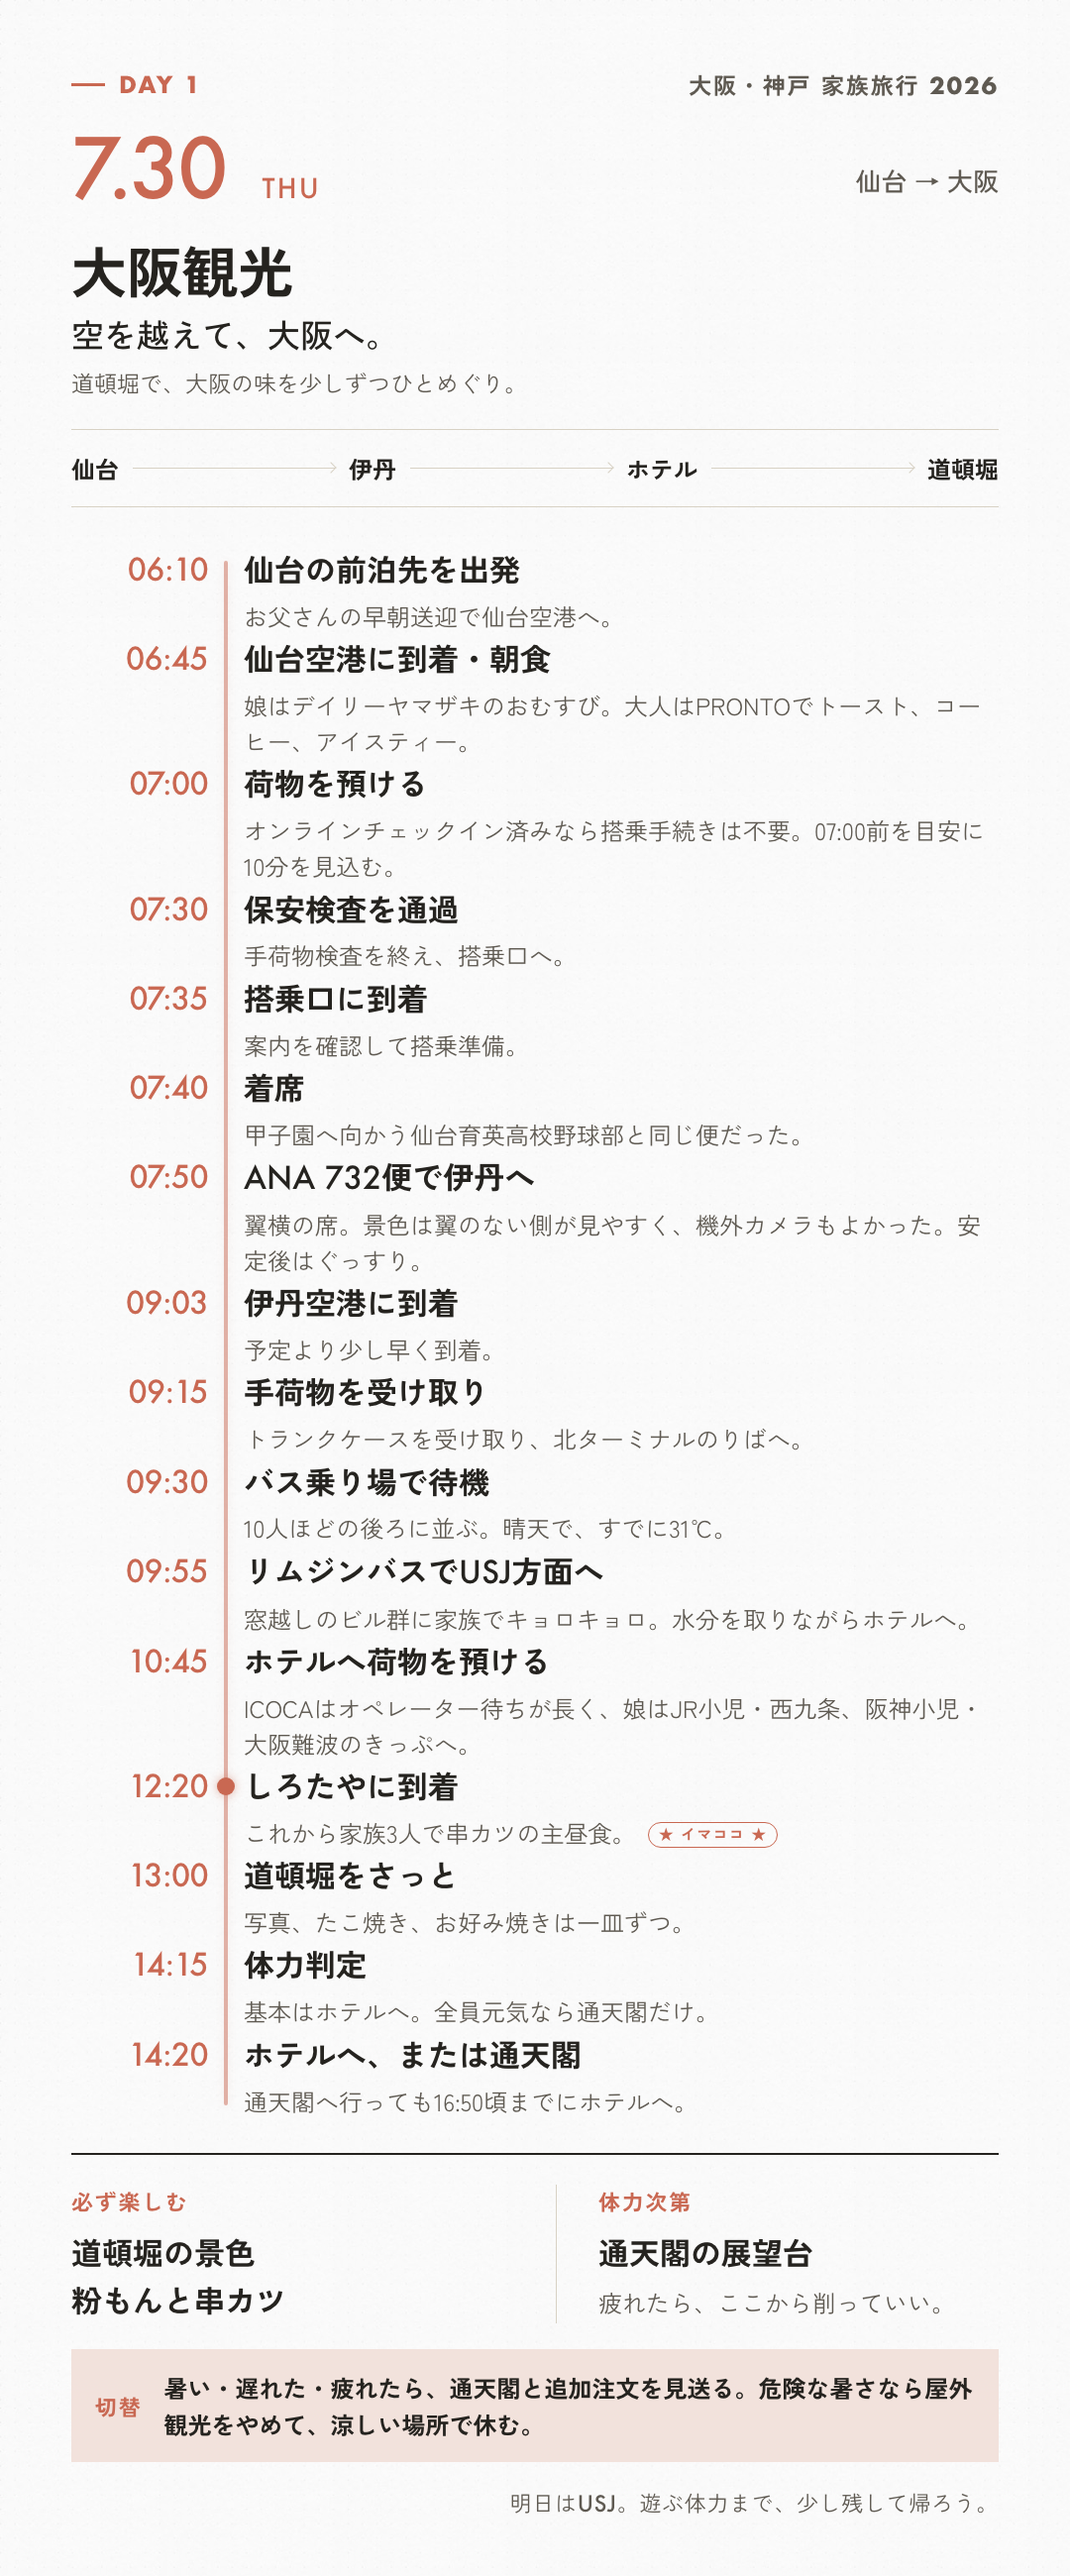
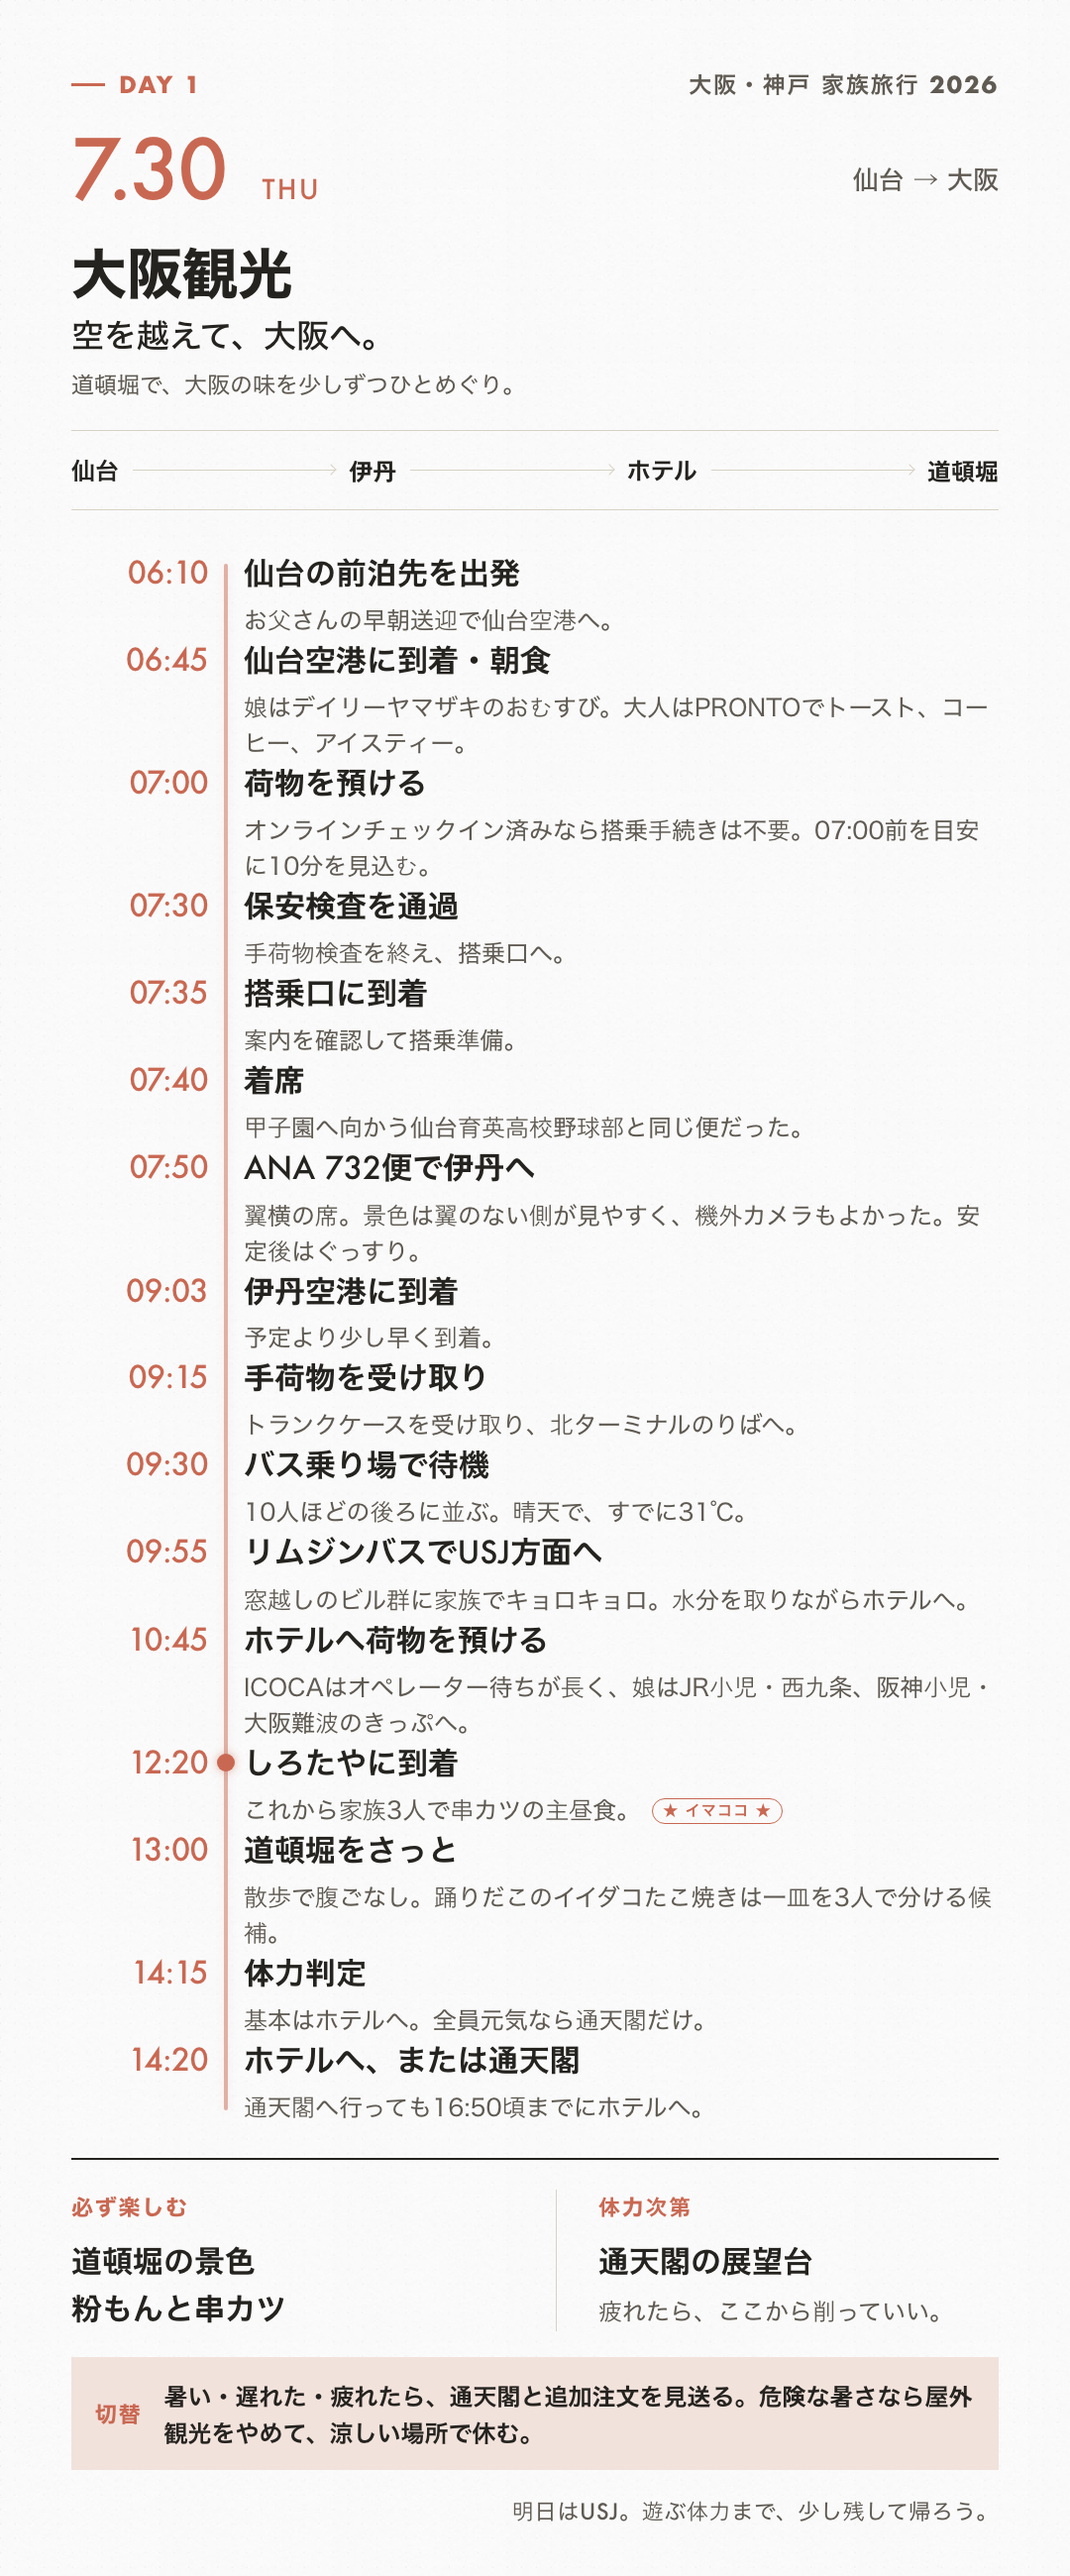
Add Dotonbori walk loop and Odoridako

diff --git a/docs/trip-plan.html b/docs/trip-plan.html
@@ -252,27 +252,29 @@
               <li><span>2</span><strong>法善寺横丁</strong><small>短い路地だけ</small></li>
               <li><span>3</span><strong>かに道楽</strong><small>動くカニ</small></li>
               <li><span>4</span><strong>戎橋</strong><small>グリコサイン</small></li>
-              <li><span>5</span><strong>551蓬莱</strong><small>列が短ければ</small></li>
-              <li><span>6</span><strong>大阪難波駅</strong><small>ホテルへ戻る</small></li>
+              <li><span>5</span><strong>心斎橋筋</strong><small>日差しを避けて5分</small></li>
+              <li><span>6</span><strong>踊りだこ</strong><small>イイダコたこ焼き</small></li>
+              <li><span>7</span><strong>大阪難波駅</strong><small>ホテルへ戻る</small></li>
             </ol>
-            <a class="walk-map__link" href="https://www.google.com/maps/dir/?api=1&amp;origin=%E4%B8%B2%E3%82%AB%E3%83%84+%E3%81%97%E3%82%8D%E3%81%9F%E3%82%84+%E9%81%93%E9%A0%93%E5%A0%80%E6%9C%AC%E5%BA%97&amp;destination=%E5%A4%A7%E9%98%AA%E9%9B%A3%E6%B3%A2%E9%A7%85&amp;travelmode=walking&amp;waypoints=%E6%B3%95%E5%96%84%E5%AF%BA%E6%A8%AA%E4%B8%81%7C%E3%81%8B%E3%81%AB%E9%81%93%E6%A5%BD+%E9%81%93%E9%A0%93%E5%A0%80%E6%9C%AC%E5%BA%97%7C%E6%88%8E%E6%A9%8B%7C551%E8%93%AC%E8%8E%B1+%E6%9C%AC%E5%BA%97" target="_blank" rel="noreferrer">Google Mapsでこの順に開く</a>
+            <a class="walk-map__link" href="https://www.google.com/maps/dir/?api=1&amp;origin=%E4%B8%B2%E3%82%AB%E3%83%84+%E3%81%97%E3%82%8D%E3%81%9F%E3%82%84+%E9%81%93%E9%A0%93%E5%A0%80%E6%9C%AC%E5%BA%97&amp;destination=%E5%A4%A7%E9%98%AA%E9%9B%A3%E6%B3%A2%E9%A7%85&amp;travelmode=walking&amp;waypoints=%E6%B3%95%E5%96%84%E5%AF%BA%E6%A8%AA%E4%B8%81%7C%E3%81%8B%E3%81%AB%E9%81%93%E6%A5%BD+%E9%81%93%E9%A0%93%E5%A0%80%E6%9C%AC%E5%BA%97%7C%E6%88%8E%E6%A9%8B%7C%E5%BF%83%E6%96%8E%E6%A9%8B%E7%AD%8B%E5%95%86%E5%BA%97%E8%A1%97%7C%E8%B8%8A%E3%82%8A%E3%81%A0%E3%81%93+%E9%81%93%E9%A0%93%E5%A0%80%E5%BA%97" target="_blank" rel="noreferrer">Google Mapsでこの順に開く</a>
           </div>
           <ol>
             <li>しろたやで昼食。中座くいだおれビル前で、くいだおれ太郎を写真に。</li>
             <li>法善寺横丁を短く見て、道頓堀通りへ戻る。</li>
             <li>かに道楽の動くカニ、戎橋のグリコサインを目印に進む。</li>
-            <li>戎橋筋で551蓬莱を見つけたら、列とお腹の余裕で豚まんを一個だけ分ける。</li>
+            <li>心斎橋筋商店街を5分だけ歩き、日差しを避ける。暑ければここで折り返す。</li>
+            <li>踊りだこで、まだ食べられそうならイイダコたこ焼きを一皿だけ三人で分ける。551は今日は保留。</li>
             <li>通天閣へ行かない場合は大阪難波駅へ戻る。行く場合だけ、日本橋駅へ向かう。</li>
           </ol>
           <p>
-            細かい出口番号は覚えず、次の目印だけをスマホ地図で検索する。食事を除く散策は45分から60分。551の列が長ければ、そこで終了してホテルへ戻る。
+            細かい出口番号は覚えず、次の目印だけをスマホ地図で検索する。食事を除く散策は25分から35分。31℃の暑さなので、踊りだこを見送ってホテルへ戻る判断を優先する。
           </p>
 
           <h3>粉もん制覇の考え方</h3>
           <div class="mini-grid">
             <div>
               <h3>たこ焼き</h3>
-              <p>「わなか」で一皿。しろたや昼食後の軽いおやつにし、列が長ければ飛ばす。</p>
+              <p>「踊りだこ」のイイダコたこ焼きが今日の第一候補。散歩後に一皿を三人で分け、暑さや満腹なら見送る。</p>
             </div>
             <div>
               <h3>お好み焼き系</h3>
